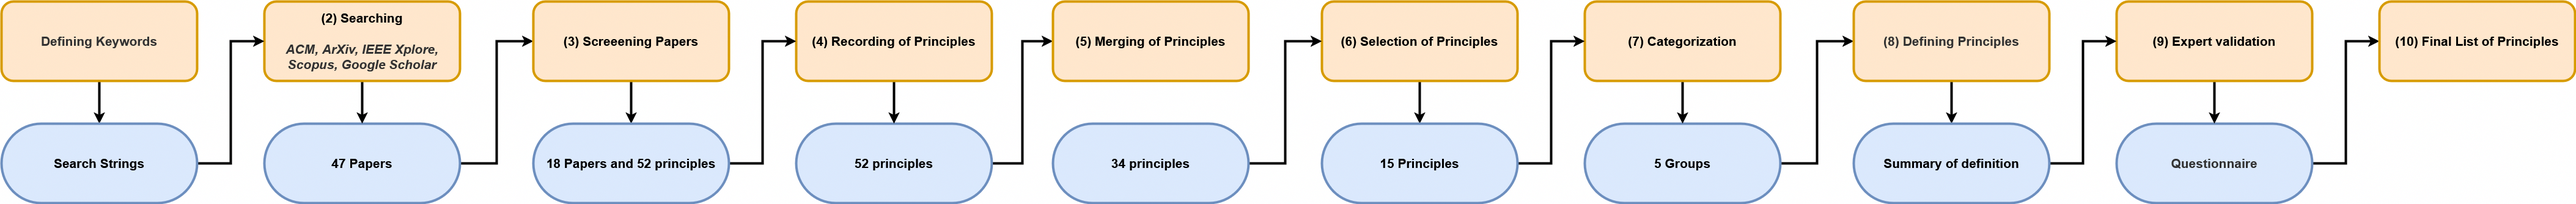
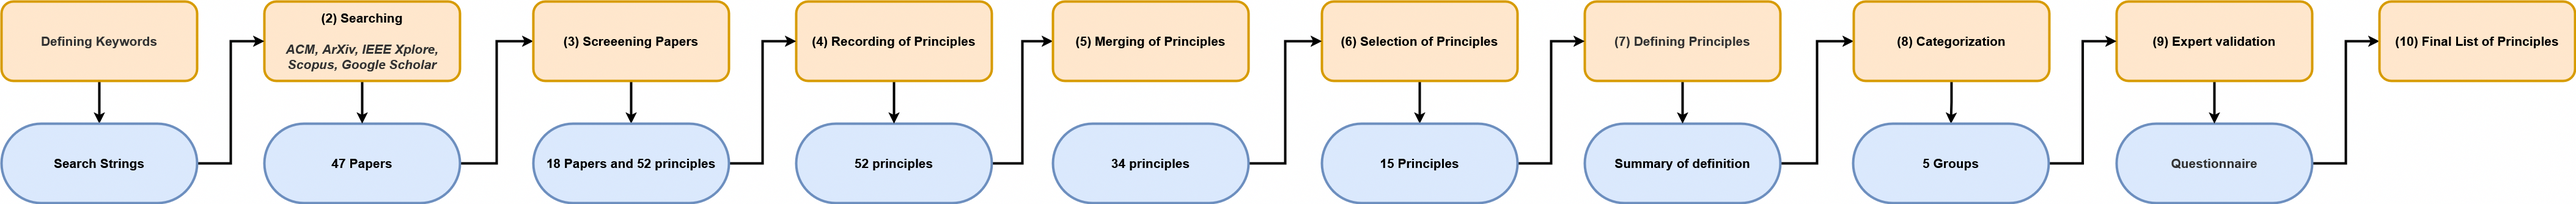
.

diff --git a/definition/Definition.md b/definition/Definition.md
@@ -47,9 +47,9 @@ Keywords were refined and shuffled to avoid wildcards; for instance, Self-Sovere
 
 *6. Selection.* We have extracted the most relevant properties using a heuristic.
 
-*7. Categorization.* We propose a categorization of properties that illuminates the relationship between the principles and Self-Sovereign Identity.
+*7. Definition of principles.* We summarized the definitions of properties from authors while retaining their essence.
 
-*8. Definition of principles.* We summarized the definitions of properties from authors while retaining their essence.
+*8. Categorization.* We propose a categorization of properties that illuminates the relationship between the principles and Self-Sovereign Identity.
 
 *9. Expert validation.* We proposed a questionnaire to investigate the identified SSI properties and assess their importance. The outcome served also to refine their definitions.
 
@@ -160,7 +160,29 @@ Other ranking methods based on weighted author publications were considered out 
 
 Further methods were considered but not pursued, primarily because **Principal Component Analysis** (PCA) produces new dimensions by combining existing principles. Similar to t-SNE, these new dimensions may lead to information loss and compromise the rest of our analysis. Indeed, the goal is to preserve the original definition of principles. Principle correlation and **clustering** highlight latent relationships—principles that may exhibit similar behaviors—which is beyond the scope of this study at this stage.
 
-### 1.3.4 Categorization
+### 1.3.4 Definition of principles
+
+We have combined the definitions of principles from 18 works, condensing them for quick comprehension while preserving their essence. This merging was done by referring to the authors' definitions as summarized in [Table 2](https://cristianlepore.github.io/Self-Sovereign-Identity/definition/tables/principles_semplification/Principles_semplification2.html). By combining definitions from at least two authors, we aimed to give a concise defintion. In some cases, we encountered similar definitions from more than two authors. To ensure consistency during the merging phase, we used uniform wording and synonyms. For example, we standardized the terms "users", "individuals", and roles like "holder" by referring to them as "entities."
+
+| Property | Definition |
+|----------|----------|
+| Ownership and Control | Entities must have full control and ultimate ownership of their Self-Sovereign Identity. This includes secure algorithms that maintain the validity of the identity and its claims, whether self-asserted or issued by a third party.[^allen][^ferdous] | 
+| Existence and Representation | Entities must be able to verify their existence by presenting attributes to service providers and generating multiple identities as needed.[^allen][^sheldrake] |
+| Privacy and Minimal Disclosure | The SSI solution should not include any method for associating biometric data with an underlying identity. Personal and confidential identity-related data should only be shared with the owner’s consent, and only the minimum necessary information should be shared with third parties.[^naik][^toth] | 
+| Interoperability | Identities  should  be  as  widely  usable as possible.[^stokkink] The systems shall enable digital identity data for an entity to be represented, exchanged, secured, protected, and verified interoperably.[^toip][^allen] | 
+| Security and Protection | The security of an identity and its related communication is paramount for any SSI solution. The system must prioritizing censorship-resistant methods that promote individual rights and freedom through cryptographically secure connections and communications.[^naik][^pava] |
+| Portability | Identities must be portable. Entities should be able to securely transfer or move their identity data to agents or systems of their choice.[^cucko][^glockler] |
+| Consent | Entities must provide explicit consent for the collection, use, and sharing of their identity data, with the option to opt in or opt out at a later time.[^cucko][^allen] |
+| Verifiability and Authenticity | Entities should be able to reliably prove their identity.[^cucko] Any identity should be verifiable through its credentials on the Web, in a manner similar to how a physical credential represents a real-world identity.[^naik] |
+| Transparency | Systems and algorithms must be transparent.[^stokkink] The systems used to manage and operate a network of identities should be open, both in terms of their functionality and in how they are managed and updated.[^allen] |
+| Persistence | Identities must be long-lived. A self-sovereign identity must ensuring that identities endure for as long as needed by the owner.[^pava][^allen] |
+| Standard | A self-sovereign identity must be based on open standards to ensure maximum portability,[^cucko] interoperability and adoption as well as sustainability.[^ferdous] | 
+| Cost | An identity should be provided to general users free of charge, with no hidden costs, licensing fees, or other financial charges.[^naik] Any proposed standard for self-sovereign identity must be adoptable at an extremely low cost.[^andrieu] | 
+| Decentralization and Autonomy | A Self-Sovereign Identity must enable complete autonomy in managing and administering identity information, without relying on a centralized system to represent, control, or verify an entity's digital identity data.[^sovrin][^essif][^ferdous] | 
+| Access and Availability | Identity must always be available to entities, which in turn must have unrestricted access to their identity information. Entities should be able to retrieve all information, including claims and assertions.[^ferdous][^tobin] | 
+| Usability and Consistency | Entities should be able to count on a consistent experience across various technology platforms and services, with the system prioritizing the usability and accessibility of agents and other SSI components.[^satybaldy][^sovrin] |
+
+### 1.3.5 Categorization
 A category is useful to "*illuminate a relationship between the subjects and objects of knowledge.*"[^mahalakshmi] In our case, the subjects and the objects are the principles and the SSI field respectively. However, a category is featured by attributes or specific properties that must be described at priori. In our case, past studies categorized the SSI principles as reported in the [Related Works](#12-related-works), but they missed to provide criteria for their content analysis. For this reason, our first goal is to analyze past studies to see if aggregated results may exhibit similarities of behaviours from authors, and categorizations.[^rai] Once done it, we aim to extract common features and categorize principles based on these features. Instrumental for this analysis is the creation of [Table 4](https://cristianlepore.github.io/Self-Sovereign-Identity/definition/tables/principles_classification/Principles_classification1), which outlines the categories from our literature review.
 
 [Click to view the table 4 with 15 properties only.](https://cristianlepore.github.io/Self-Sovereign-Identity/definition/tables/principles_classification/Principles_classification1) *The principles and their categories.*
@@ -403,34 +425,12 @@ Aftermath the analysis, the K-Means clustering with a subtle modification was us
 ![Final list of principles and clustering (Local)](/definition/images/clusters/Bubble.png)
 *Figure 19: Final list of groups and their names.*
 
-This choice reflects the need to guarantee that all groups have more than a principle, and welcomes a proper naming of principles based on their defintions and labels.
+This choice reflects the need to guarantee that all groups have more than a principle, and welcomes a proper naming of principles based on their defintions and labels. The image visually categorizes key principles of Self-Sovereign Identity (SSI) into five distinct groups, each represented by a different color. These groups highlight essential aspects of SSI, such as user control, security, usability, sustainability, and portability. The **Controllability** section emphasizes an individual’s authority over their digital identity, while **Security** focuses on protecting data, ensuring persistence, and maintaining privacy. **Usability** addresses factors that contribute to a seamless experience, such as decentralization and accessibility. **Sustainability** considers the long-term viability of SSI systems, particularly in terms of cost and standardization. Finally, **Portability** ensures that identities can be easily transferred and function across different platforms while maintaining transparency and interoperability. The structured layout visually distinguishes these categories, illustrating how they interconnect to create a robust and user-centric identity framework.
 
 ![Final list of principles and clustering (Local)](/definition/images/final_list_properties/Final_list_properties.png)
 *Figure 4: The final grouping.*
 
-### 1.3.4 Definition of principles
-
-We have combined the definitions of principles from 18 works, condensing them for quick comprehension while preserving their essence. This merging was done by referring to the authors' definitions as summarized in [Table 2](https://cristianlepore.github.io/Self-Sovereign-Identity/definition/tables/principles_semplification/Principles_semplification2.html). By combining definitions from at least two authors, we aimed to give a concise defintion. In some cases, we encountered similar definitions from more than two authors. To ensure consistency during the merging phase, we used uniform wording and synonyms. For example, we standardized the terms "users", "individuals", and roles like "holder" by referring to them as "entities."
-
-| Property | Definition |
-|----------|----------|
-| Ownership and Control | Entities must have full control and ultimate ownership of their Self-Sovereign Identity. This includes secure algorithms that maintain the validity of the identity and its claims, whether self-asserted or issued by a third party.[^allen][^ferdous] | 
-| Existence and Representation | Entities must be able to verify their existence by presenting attributes to service providers and generating multiple identities as needed.[^allen][^sheldrake] |
-| Privacy and Minimal Disclosure | The SSI solution should not include any method for associating biometric data with an underlying identity. Personal and confidential identity-related data should only be shared with the owner’s consent, and only the minimum necessary information should be shared with third parties.[^naik][^toth] | 
-| Interoperability | Identities  should  be  as  widely  usable as possible.[^stokkink] The systems shall enable digital identity data for an entity to be represented, exchanged, secured, protected, and verified interoperably.[^toip][^allen] | 
-| Security and Protection | The security of an identity and its related communication is paramount for any SSI solution. The system must prioritizing censorship-resistant methods that promote individual rights and freedom through cryptographically secure connections and communications.[^naik][^pava] |
-| Portability | Identities must be portable. Entities should be able to securely transfer or move their identity data to agents or systems of their choice.[^cucko][^glockler] |
-| Consent | Entities must provide explicit consent for the collection, use, and sharing of their identity data, with the option to opt in or opt out at a later time.[^cucko][^allen] |
-| Verifiability and Authenticity | Entities should be able to reliably prove their identity.[^cucko] Any identity should be verifiable through its credentials on the Web, in a manner similar to how a physical credential represents a real-world identity.[^naik] |
-| Transparency | Systems and algorithms must be transparent.[^stokkink] The systems used to manage and operate a network of identities should be open, both in terms of their functionality and in how they are managed and updated.[^allen] |
-| Persistence | Identities must be long-lived. A self-sovereign identity must ensuring that identities endure for as long as needed by the owner.[^pava][^allen] |
-| Standard | A self-sovereign identity must be based on open standards to ensure maximum portability,[^cucko] interoperability and adoption as well as sustainability.[^ferdous] | 
-| Cost | An identity should be provided to general users free of charge, with no hidden costs, licensing fees, or other financial charges.[^naik] Any proposed standard for self-sovereign identity must be adoptable at an extremely low cost.[^andrieu] | 
-| Decentralization and Autonomy | A Self-Sovereign Identity must enable complete autonomy in managing and administering identity information, without relying on a centralized system to represent, control, or verify an entity's digital identity data.[^sovrin][^essif][^ferdous] | 
-| Access and Availability | Identity must always be available to entities, which in turn must have unrestricted access to their identity information. Entities should be able to retrieve all information, including claims and assertions.[^ferdous][^tobin] | 
-| Usability and Consistency | Entities should be able to count on a consistent experience across various technology platforms and services, with the system prioritizing the usability and accessibility of agents and other SSI components.[^satybaldy][^sovrin] |
-
-### 1.3.5 Expert validation
+### 1.3.6 Expert validation
 
 To validate the proposed principles, we conducted a survey targeting experts attending the digital identity keynote at the ARES Conference 2024, held from July 29 to August 2 in Vienna, Austria. In parallel to a survey, we considered other methods of gathering input from participants, for example interviews. Despite the need for careful design to achieve a good response rate,[^ward] we preferred surveys over interviews because they allow participants to share their opinions without bias or fear of judgment, making them more likely to select their preferred options freely.[^mol] Additionally, since ARES is an international conference, conducting interviews in English could introduce biases due to language barriers, wording issues, and potential misunderstandings. Time was another critical factor we considered. Indeed, conference attendees may not have been willing to dedicate significant time to interviews. In contrast, a survey could reach a broader audience and allow participants to complete the questionnaire at their convenience. Due to these factors, we ultimately opted for a survey.
 
@@ -534,7 +534,7 @@ Sustainability and Adoption
 ![Properties ranking and grouping](/definition/images/importance_group/ImportantGroups.png)
 *Figure 8. The most and least important group according to our survey.*
 
-### 1.3.6 Final defintion of properties
+### 1.3.7 Final defintion of properties
 
 The definitions presented in [Section 1.3.5](#135-refining-principles) were abbreviated as much as possible intentionally, due to their use in the questionnaire. In this Section, we want to enhance them in accordance with the results of the respondents, as we obtained valuable insights from experts in the fields of IdM and SSI, expressing their concerns and possible misunderstandings of an individual property. 
 
